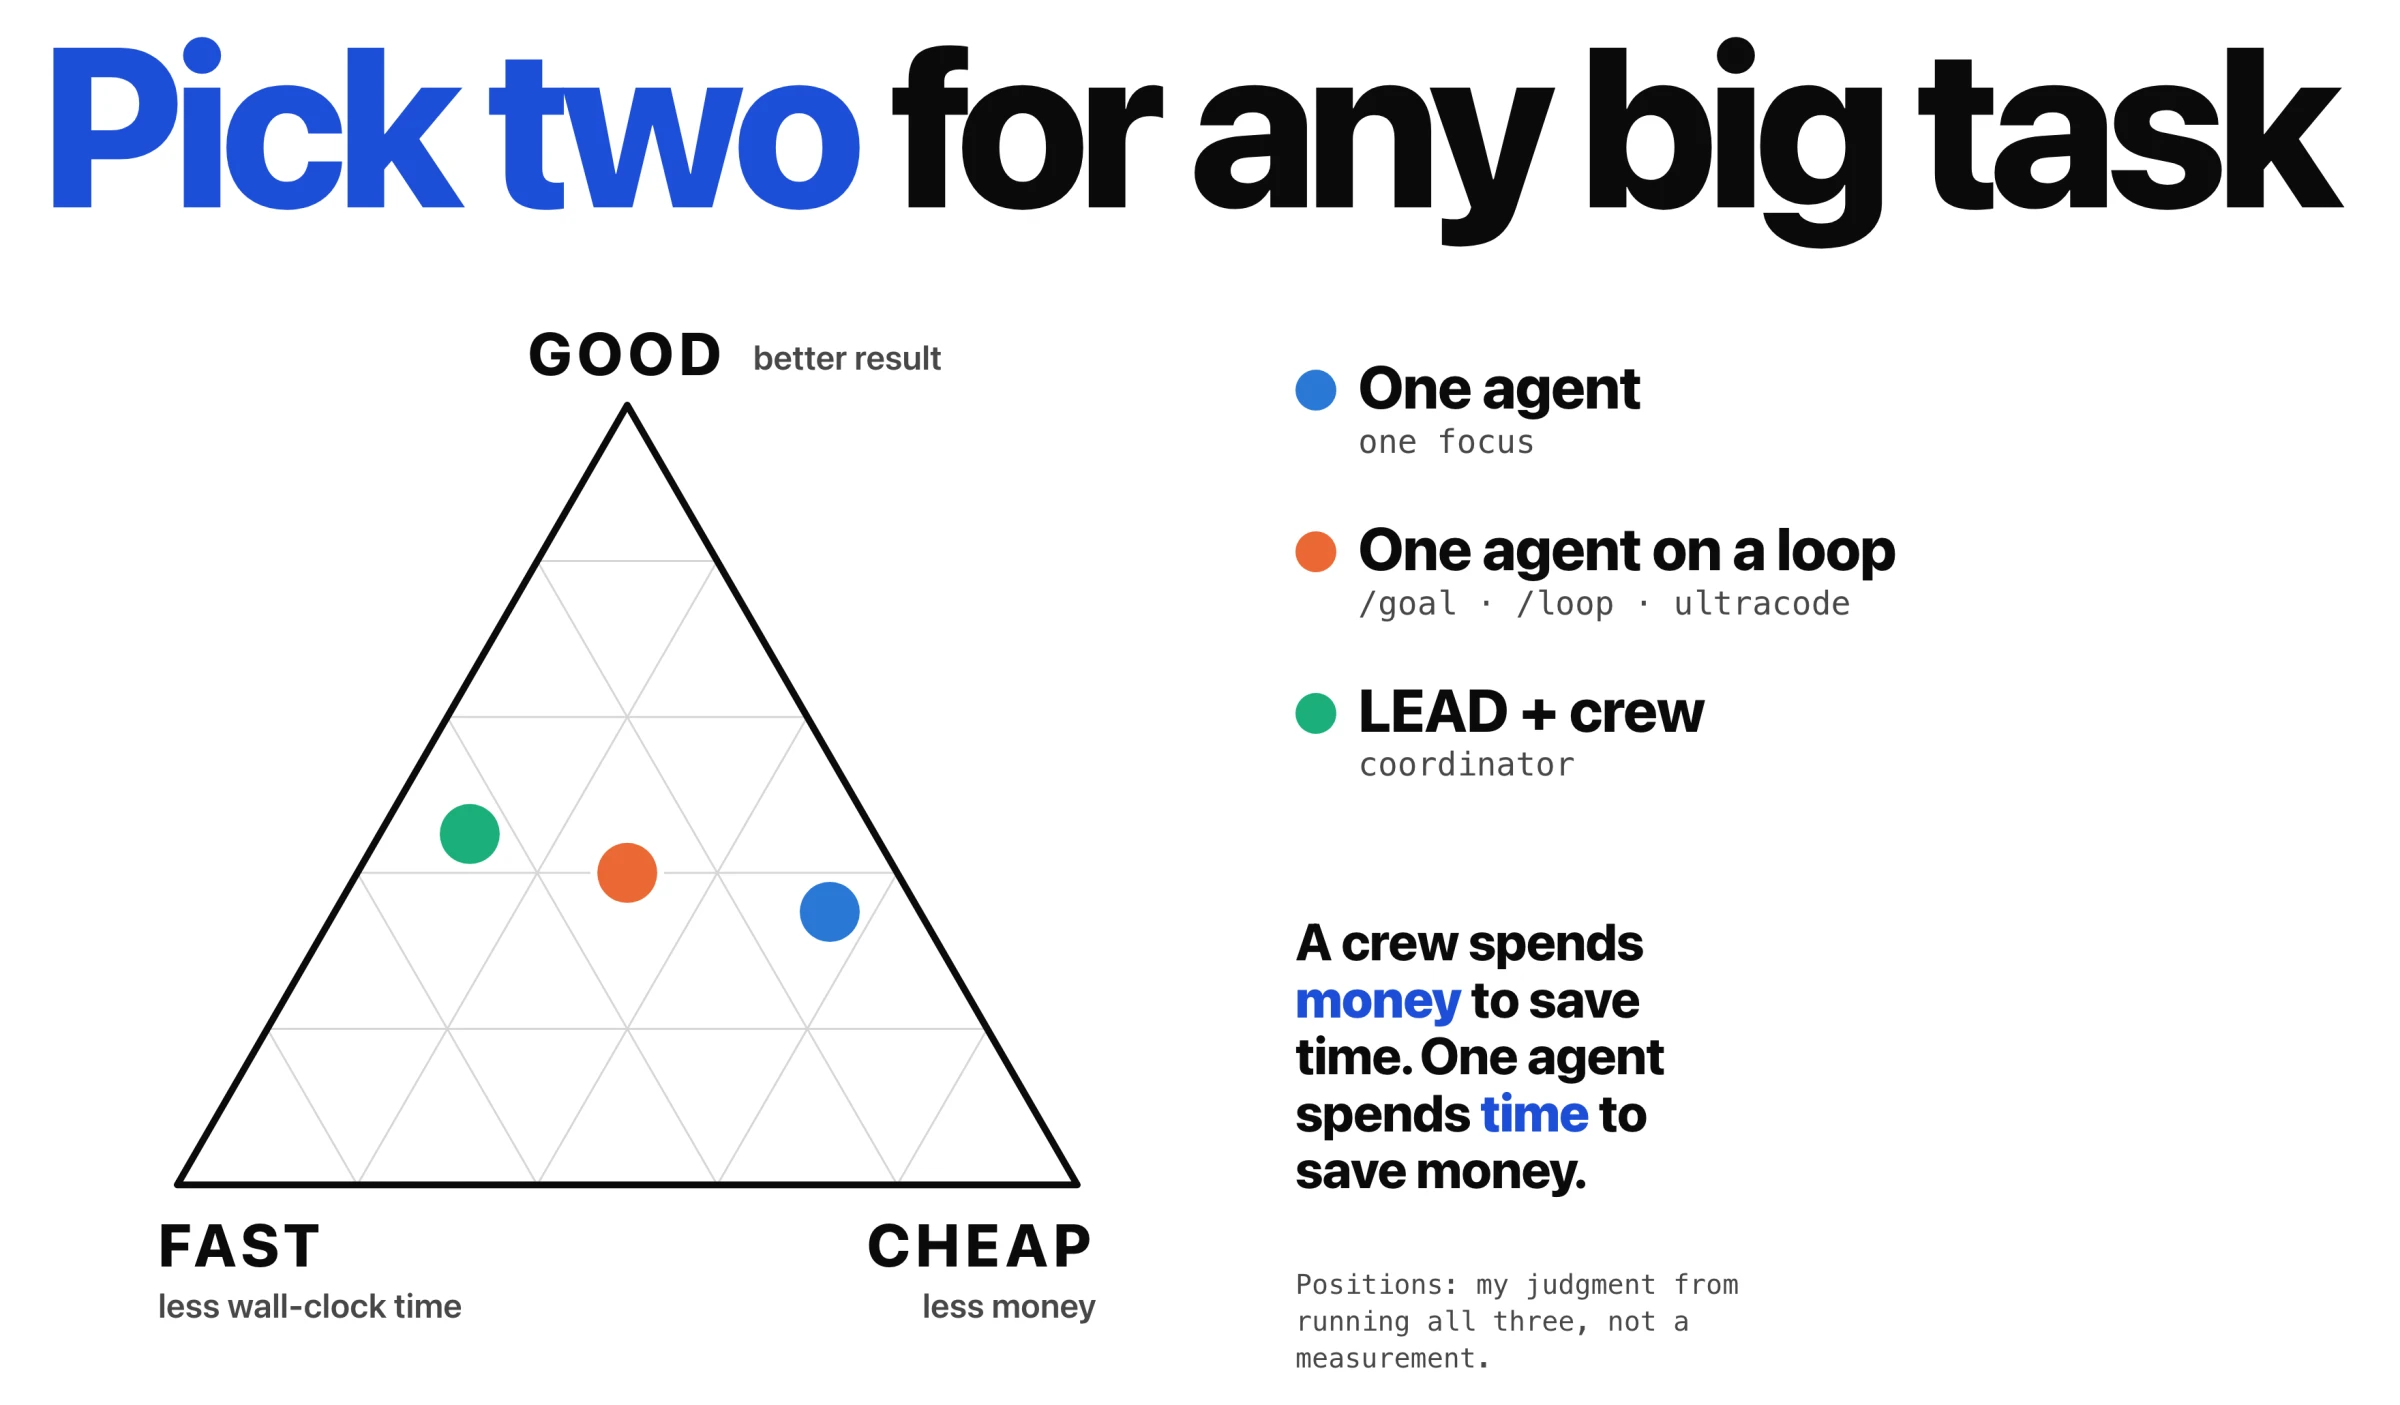
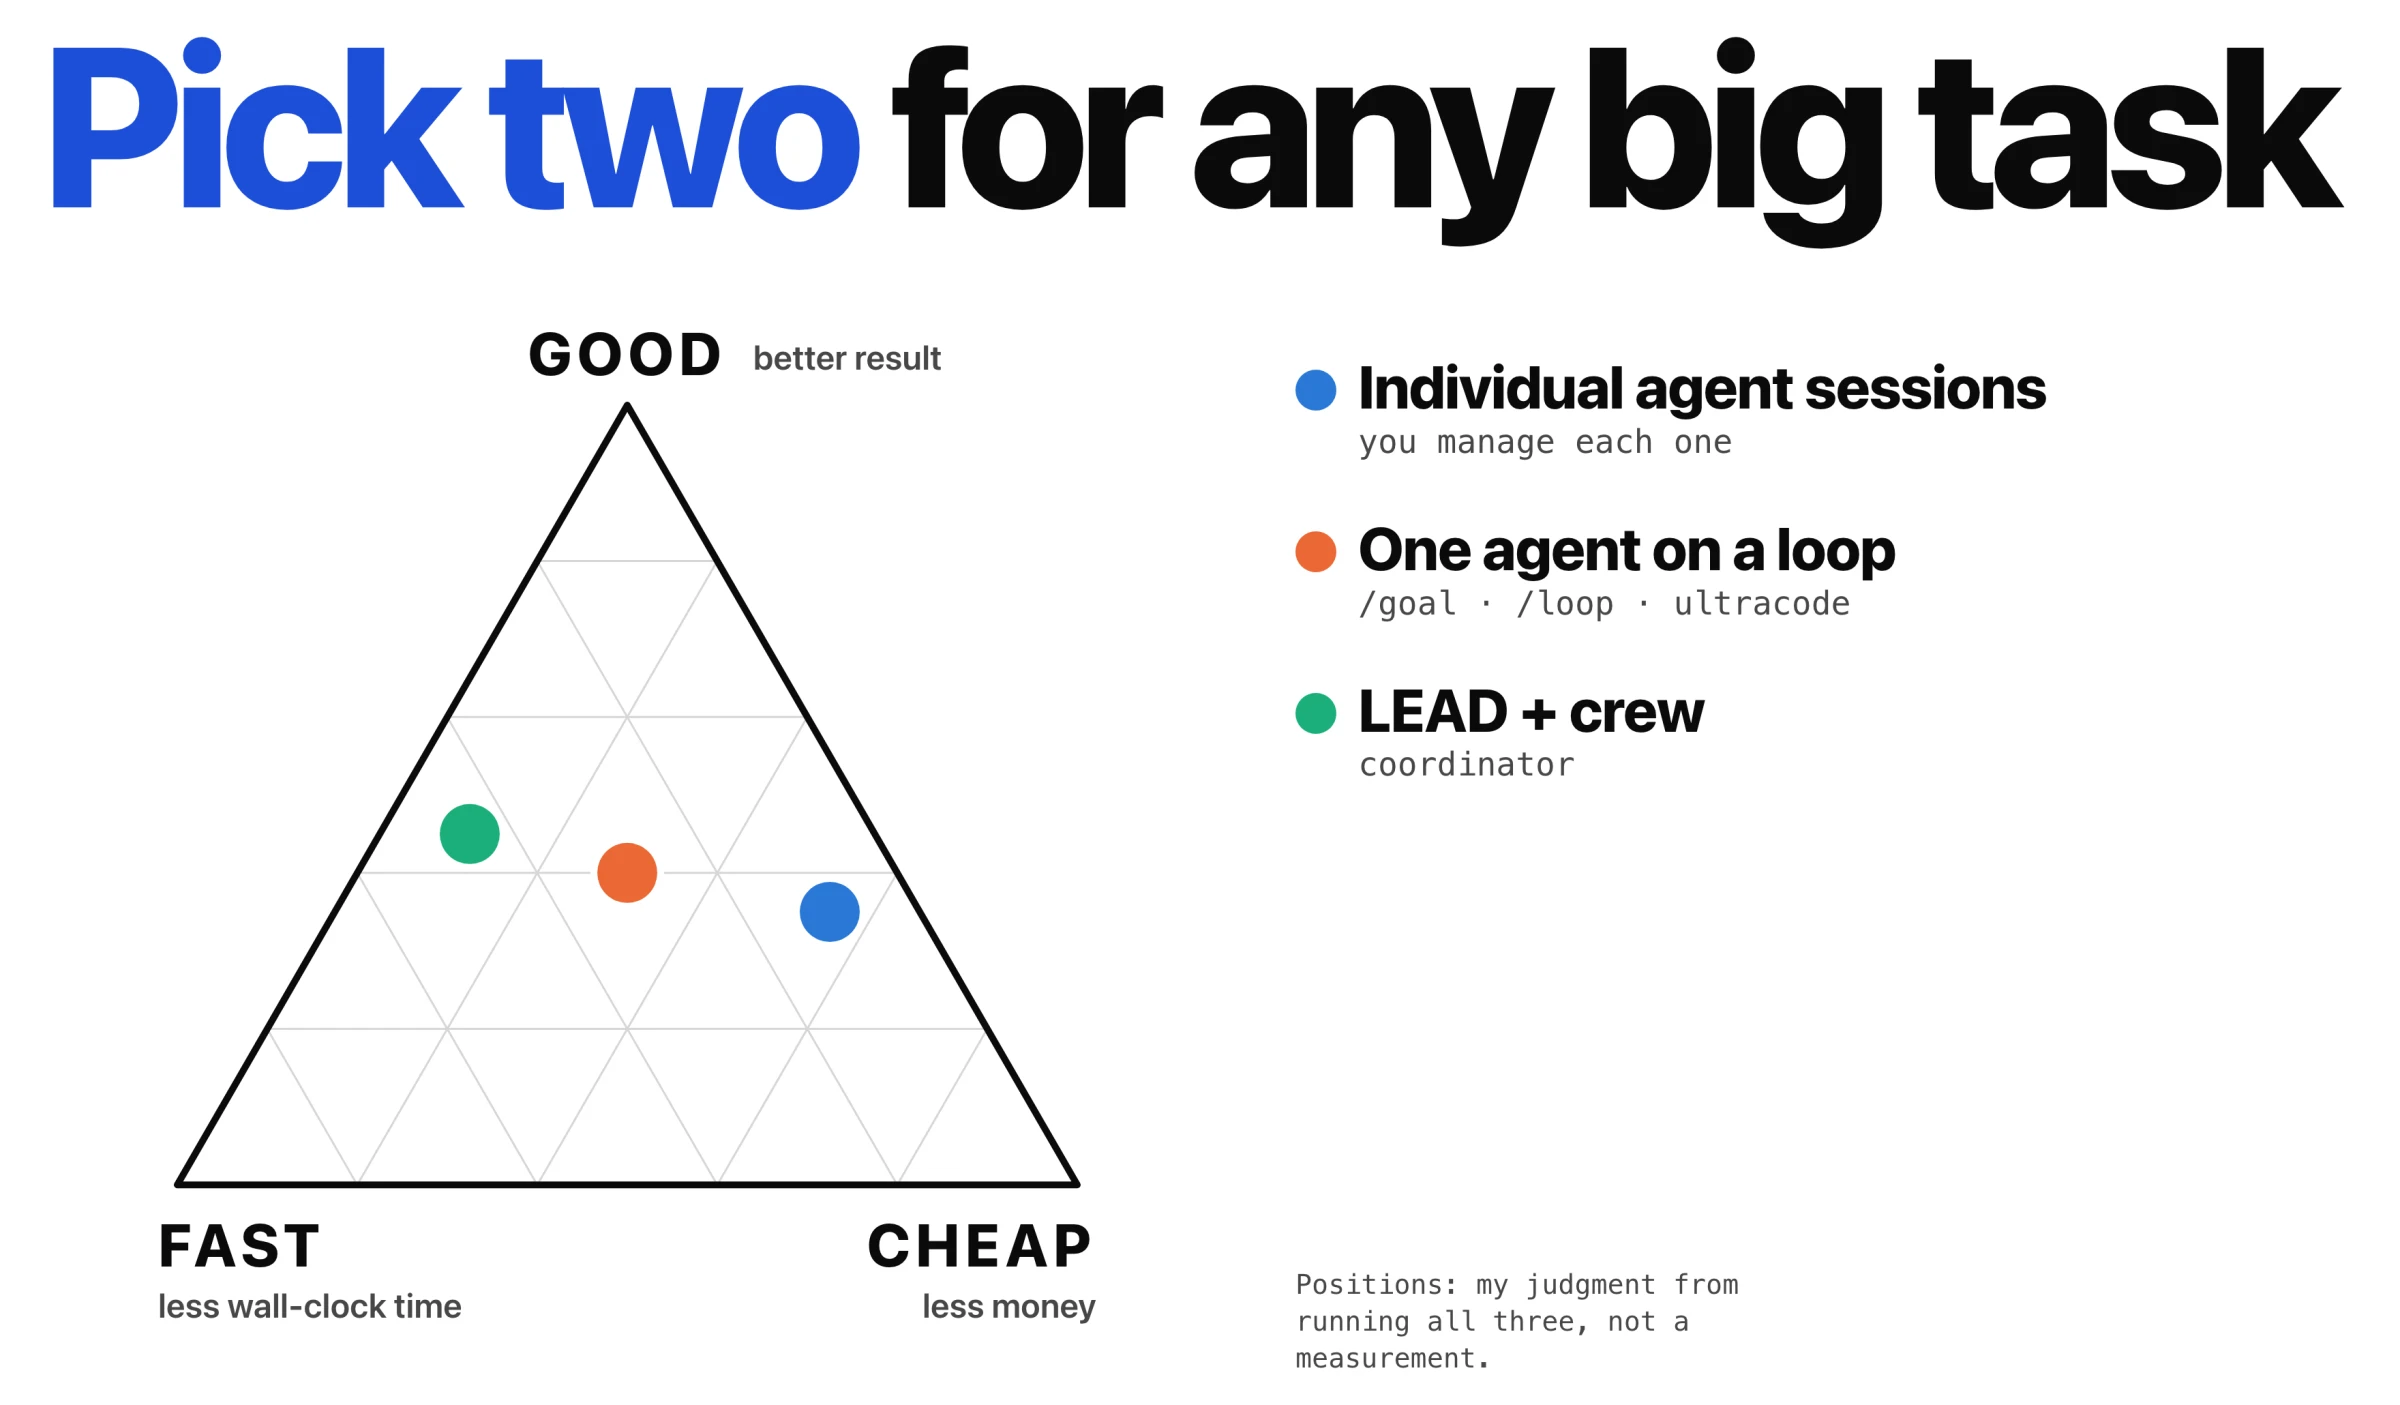
README: the triangle names individual agent sessions and draws no conclusion
The first mode was "One agent", which hid what it is for a big task:
sessions the operator starts and manages one by one. It is now
"Individual agent sessions · you manage each one", so the three modes
read as who does the coordinating: you, the agent itself, a LEAD.

The line under the legend ("A crew spends money to save time...") is
gone from the figure and from the alt text. With corners that name what
you get, the dots already say it.

Claude-Session: https://claude.ai/code/session_01Vaz9YD2nHHpYD7rf2yR5Y6

Changed region(s): [[0.5312, 0.6427, 0.7188, 0.8569], [0.5625, 0.2448, 0.875, 0.3367]]

diff --git a/README.md b/README.md
@@ -19,7 +19,7 @@ reads finished turns for you and marks them ✅ done or ⚠ needs you.
   </tr>
   <tr><th colspan="3">Three modes · pick two</th></tr>
   <tr>
-    <td colspan="3" align="center"><a href="docs/img/modes-triangle.webp"><img src="docs/img/thumbs/modes-triangle.webp" width="420" alt="Pick two for any big task: a good, fast and cheap triangle with the rack's three modes as dots. One agent (one focus) sits toward cheap: the least money, and the slowest. One agent on a loop (/goal, /loop, ultracode) sits in the middle. A LEAD with a crew (coordinator) sits toward fast and a little higher: the quickest route to a good result, and the most expensive. A crew spends money to save time; one agent spends time to save money. Positions are judgment from running all three, not a measurement."></a></td>
+    <td colspan="3" align="center"><a href="docs/img/modes-triangle.webp"><img src="docs/img/thumbs/modes-triangle.webp" width="420" alt="Pick two for any big task: a good, fast and cheap triangle with the rack's three modes as dots. Individual agent sessions (you manage each one) sit toward cheap: the least money, and the slowest. One agent on a loop (/goal, /loop, ultracode) sits in the middle. A LEAD with a crew (coordinator) sits toward fast and a little higher: the quickest route to a good result, and the most expensive. Positions are judgment from running all three, not a measurement."></a></td>
   </tr>
 </table>
 
